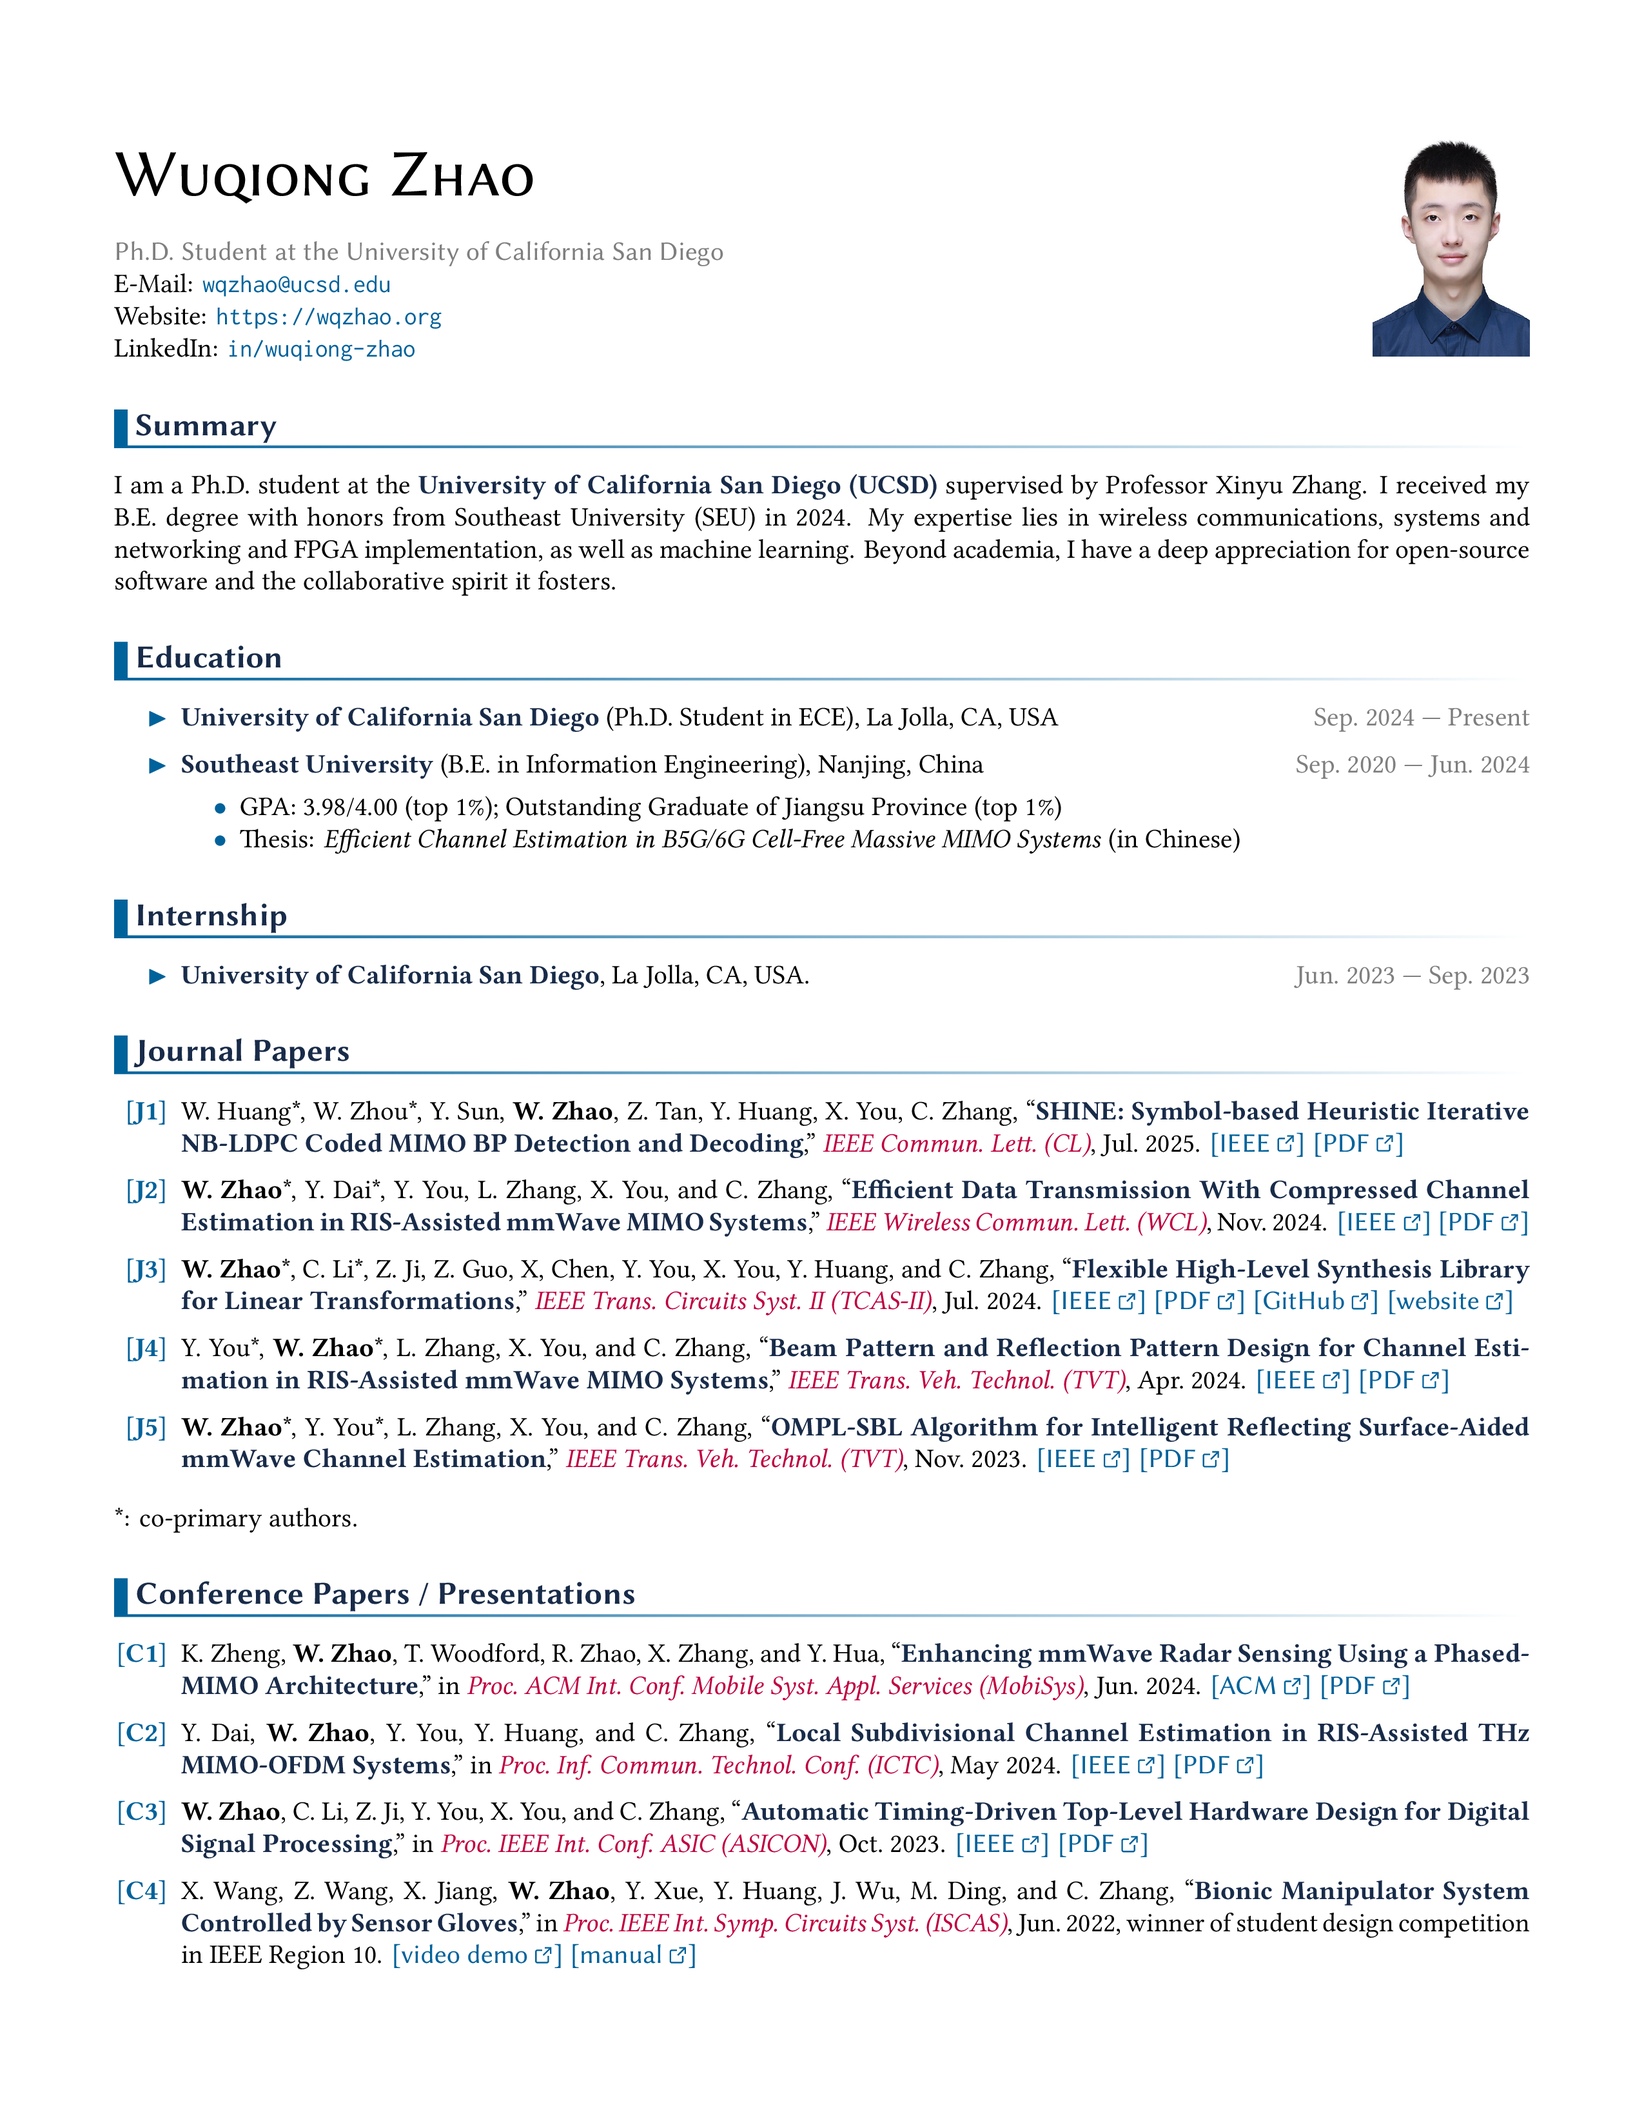
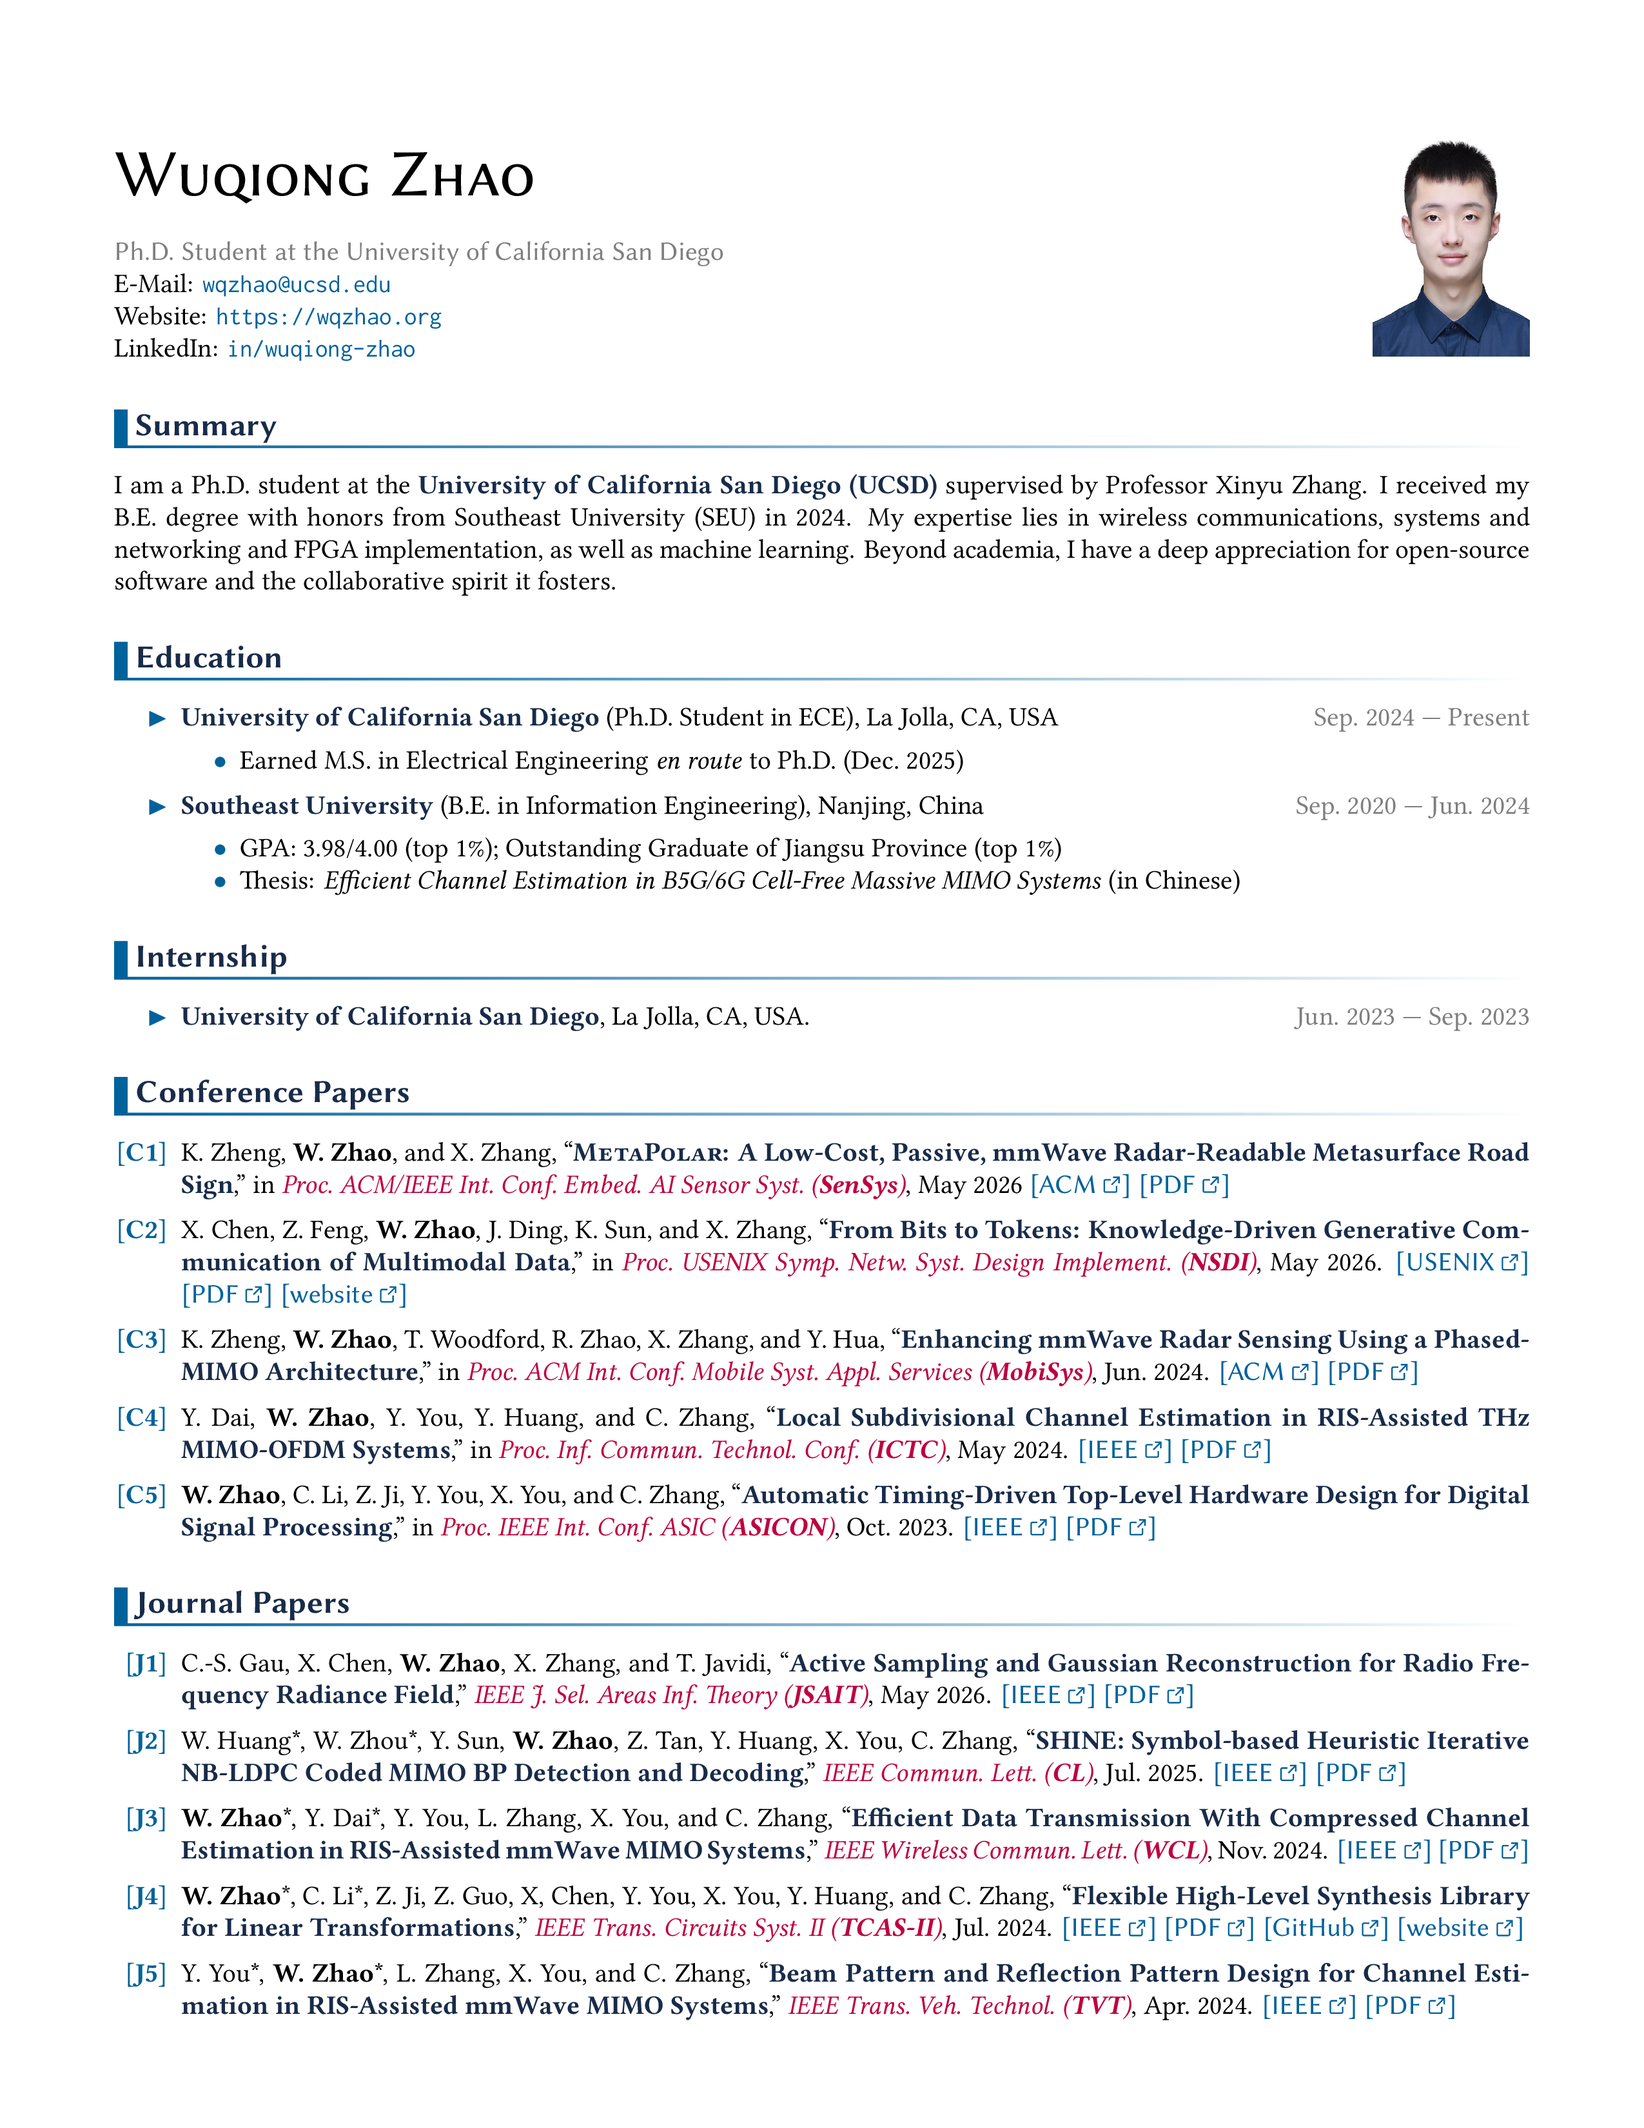
Update Recent Papers

Changed region(s): [[0.062, 0.3433, 0.9294, 0.9676], [0.7745, 0.437, 0.8365, 0.4682]]

diff --git a/color-cv.tex b/color-cv.tex
@@ -55,6 +55,9 @@ Beyond academia, I have a deep appreciation for open-source software and the col
 \begin{itemize}
   \item \Textbf{University of California San Diego} (Ph.D.\@ Student in ECE), La Jolla, CA, USA
     \RDate{Sep.~2024 --- Present}
+    \begin{itemize}
+      \item Earned M.S.\@ in Electrical Engineering \textit{en route} to Ph.D. (Dec.~2025)
+    \end{itemize}
   \item \Textbf{Southeast University} (B.E.\@ in Information Engineering), Nanjing, China
     \RDate{Sep.~2020 --- Jun.~2024}
     \begin{itemize}
@@ -70,24 +73,65 @@ Beyond academia, I have a deep appreciation for open-source software and the col
   \RDate{Jun.~2023 --- Sep.~2023}
 \end{itemize}
 
+\section{Conference Papers}
+\begin{enumerate}[label = \textcolor{\ThemeColor}{[\textbf{C\arabic*}]}, ref=\textcolor{\ThemeColor}{[C\arabic*]}]
+  \item \label{C:zheng2026metapolar}%
+    K.~Zheng, \textbf{W.~Zhao}, and X.~Zhang,
+    ``\Textbf{\textsc{MetaPolar}: A Low-Cost, Passive, mmWave Radar-Readable Metasurface Road Sign},''
+    in \Pub{Proc.\ ACM/IEEE Int.\ Conf.\ Embed.\ AI\ Sensor Syst.\ (\textbf{SenSys})}, May 2026
+    \link{https://dl.acm.org/doi/10.1145/3774906.3800464}{ACM}
+    \link{https://wqzhao.org/assets/zheng2026metapolar.pdf}{PDF}
+  \item \label{C:chen2026from}%
+    X.~Chen, Z.~Feng, \textbf{W.~Zhao}, J.~Ding, K.~Sun, and X.~Zhang,
+    ``\Textbf{From Bits to Tokens: Knowledge-Driven Generative Communication of Multimodal Data},''
+    in \Pub{Proc.\ USENIX Symp.\ Netw.\ Syst.\ Design Implement.\ (\textbf{NSDI})}, May 2026.
+    \link{https://www.usenix.org/conference/nsdi26/presentation/chen-xingyu}{USENIX}
+    \link{https://wqzhao.org/assets/chen2026from.pdf}{PDF}
+    \link{https://bit2token.github.io/}{website}
+  \item \label{C:zheng2024enhancing}%
+    K.~Zheng, \textbf{W.~Zhao}, T.~Woodford, R.~Zhao, X.~Zhang, and Y.~Hua,
+    ``\Textbf{Enhancing mmWave Radar Sensing Using a Phased-MIMO Architecture},''
+    in \Pub{Proc.\ ACM Int.\ Conf.\ Mobile Syst.\ Appl.\ Services (\textbf{MobiSys})}, Jun.\ 2024.
+    \link{https://dl.acm.org/doi/abs/10.1145/3643832.3661865}{ACM}
+    \link{https://wqzhao.org/assets/zheng2024enhancing.pdf}{PDF}
+  \item \label{C:dai2024local}%
+    Y.~Dai, \textbf{W.~Zhao}, Y.~You, Y.~Huang, and C.~Zhang,
+    ``\Textbf{Local Subdivisional Channel Estimation in RIS-Assisted THz MIMO-OFDM Systems},''
+    in \Pub{Proc.\ Inf.\ Commun.\ Technol.\ Conf.\ (\textbf{ICTC})}, May 2024.
+    \link{https://ieeexplore.ieee.org/document/10601808}{IEEE}
+    \link{https://wqzhao.org/assets/dai2024local.pdf}{PDF}
+  \item \label{C:zhao2023automatic}%
+    \textbf{W.~Zhao}, C.~Li, Z.~Ji, Y.~You, X.~You, and C.~Zhang,
+    ``\Textbf{Automatic Timing-Driven Top-Level Hardware Design for Digital Signal Processing},''
+    in \Pub{Proc.\ IEEE Int.\ Conf.\ ASIC (\textbf{ASICON})}, Oct.\ 2023.
+    \link{https://ieeexplore.ieee.org/document/10396119}{IEEE}
+    \link{https://wqzhao.org/assets/zhao2023automatic.pdf}{PDF}
+\end{enumerate}
+
 \section{Journal Papers}
 \begin{enumerate}[label = \textcolor{\ThemeColor}{[\textbf{J\arabic*}]}, ref=\textcolor{\ThemeColor}{[J\arabic*]}]
+  \item \label{J:gau2026active}%
+    C.-S.~Gau, X.~Chen, \textbf{W.~Zhao}, X.~Zhang, and T.~Javidi,
+    ``\Textbf{Active Sampling and Gaussian Reconstruction for Radio Frequency Radiance Field},''
+    \Pub{IEEE J.\ Sel.\ Areas Inf.\ Theory (\textbf{JSAIT})}, May 2026.
+    \link{https://ieeexplore.ieee.org/document/11495132}{IEEE}
+    \link{https://wqzhao.org/assets/gau2026active.pdf}{PDF}
   \item \label{J:huang2025shine}%
     W.~Huang*, W.~Zhou*, Y.~Sun, \textbf{W.~Zhao}, Z.~Tan, Y.~Huang, X.~You, C.~Zhang,
     ``\Textbf{SHINE: Symbol-based Heuristic Iterative NB-LDPC Coded MIMO BP Detection and Decoding},''
-    \Pub{IEEE Commun.\ Lett.\ (CL)}, Jul.\ 2025.
+    \Pub{IEEE Commun.\ Lett.\ (\textbf{CL})}, Jul.\ 2025.
     \link{https://ieeexplore.ieee.org/document/11007208}{IEEE}
     \link{https://wqzhao.org/assets/huang2025shine.pdf}{PDF}
   \item \label{J:zhao2024efficient}%
     \textbf{W.~Zhao}*, Y.~Dai*, Y.~You, L.~Zhang, X.~You, and C.~Zhang,
     ``\Textbf{Efficient Data Transmission With Compressed Channel Estimation in RIS-Assisted mmWave MIMO Systems},''
-    \Pub{IEEE Wireless Commun.\ Lett.\ (WCL)}, Nov.\ 2024.
+    \Pub{IEEE Wireless Commun.\ Lett.\ (\textbf{WCL})}, Nov.\ 2024.
     \link{https://ieeexplore.ieee.org/document/10589430}{IEEE}
     \link{https://wqzhao.org/assets/zhao2024efficient.pdf}{PDF}
   \item \label{J:zhao2024flames}%
     \textbf{W.~Zhao}*, C.~Li*, Z.~Ji, Z.~Guo, X,~Chen, Y.~You, X.~You, Y.~Huang, and C.~Zhang,
     ``\Textbf{Flexible High-Level Synthesis Library for Linear Transformations},''
-    \Pub{IEEE Trans.\ Circuits Syst.\ II (TCAS-II)}, Jul.\ 2024.
+    \Pub{IEEE Trans.\ Circuits Syst.\ II (\textbf{TCAS-II})}, Jul.\ 2024.
     \link{https://ieeexplore.ieee.org/document/10437992}{IEEE}
     \link{https://wqzhao.org/assets/zhao2024flexible.pdf}{PDF}
     \link{https://github.com/autohdw/flames}{GitHub}
@@ -95,52 +139,18 @@ Beyond academia, I have a deep appreciation for open-source software and the col
   \item \label{J:you2024beam}%
     Y.~You*, \textbf{W.~Zhao}*, L.~Zhang, X.~You, and C.~Zhang,
     ``\Textbf{Beam Pattern and Reflection Pattern Design for Channel Estimation in RIS-Assisted mmWave MIMO Systems},''
-    \Pub{IEEE Trans.\ Veh.\ Technol.\ (TVT)}, Apr.\ 2024.
+    \Pub{IEEE Trans.\ Veh.\ Technol.\ (\textbf{TVT})}, Apr.\ 2024.
     \link{https://ieeexplore.ieee.org/document/10243635}{IEEE}
     \link{https://wqzhao.org/assets/you2024beam.pdf}{PDF}
   \item \label{J:zhao2023ompl}%
     \textbf{W.~Zhao}*, Y.~You*, L.~Zhang, X.~You, and C.~Zhang, ``\Textbf{OMPL-SBL Algorithm for Intelligent Reflecting Surface-Aided mmWave Channel Estimation},''
-    \Pub{IEEE Trans.\ Veh.\ Technol.\ (TVT)}, Nov.\ 2023.
+    \Pub{IEEE Trans.\ Veh.\ Technol.\ (\textbf{TVT})}, Nov.\ 2023.
     \link{https://ieeexplore.ieee.org/document/10164645}{IEEE}
     \link{https://wqzhao.org/assets/zhao2023ompl.pdf}{PDF}
 \end{enumerate}
 
 \noindent
 *: co-primary authors.
-
-\section{Conference Papers / Presentations}
-\begin{enumerate}[label = \textcolor{\ThemeColor}{[\textbf{C\arabic*}]}, ref=\textcolor{\ThemeColor}{[C\arabic*]}]
-  \item \label{C:zheng2026metapolar}%
-    K.~Zheng, \textbf{W.~Zhao}, and X.~Zhang,
-    ``\Textbf{MetaPolar: A Low-Cost, Passive, mmWave Radar-Readable Metasurface Road Sign},''
-    in \Pub{Proc.\ ACM/IEEE Int.\ Conf.\ Embed.\ AI\ Sensor Syst.\ (SenSys)}, May\ 2026
-    (to appear).
-  \item \label{C:zheng2024enhancing}%
-    K.~Zheng, \textbf{W.~Zhao}, T.~Woodford, R.~Zhao, X.~Zhang, and Y.~Hua,
-    ``\Textbf{Enhancing mmWave Radar Sensing Using a Phased-MIMO Architecture},''
-    in \Pub{Proc.\ ACM Int.\ Conf.\ Mobile Syst.\ Appl.\ Services (MobiSys)}, Jun.\ 2024.
-    \link{https://dl.acm.org/doi/abs/10.1145/3643832.3661865}{ACM}
-    \link{https://wqzhao.org/assets/zheng2024enhancing.pdf}{PDF}
-  \item \label{C:dai2024local}%
-    Y.~Dai, \textbf{W.~Zhao}, Y.~You, Y.~Huang, and C.~Zhang,
-    ``\Textbf{Local Subdivisional Channel Estimation in RIS-Assisted THz MIMO-OFDM Systems},''
-    in \Pub{Proc.\ Inf.\ Commun.\ Technol.\ Conf.\ (ICTC)}, May 2024.
-    \link{https://ieeexplore.ieee.org/document/10601808}{IEEE}
-    \link{https://wqzhao.org/assets/dai2024local.pdf}{PDF}
-  \item \label{C:zhao2023automatic}%
-    \textbf{W.~Zhao}, C.~Li, Z.~Ji, Y.~You, X.~You, and C.~Zhang,
-    ``\Textbf{Automatic Timing-Driven Top-Level Hardware Design for Digital Signal Processing},''
-    in \Pub{Proc.\ IEEE Int.\ Conf.\ ASIC (ASICON)}, Oct.\ 2023.
-    \link{https://ieeexplore.ieee.org/document/10396119}{IEEE}
-    \link{https://wqzhao.org/assets/zhao2023automatic.pdf}{PDF}
-  \item \label{C:wang2022bionic}%
-    X.~Wang, Z.~Wang, X.~Jiang, \textbf{W.~Zhao}, Y.~Xue, Y.~Huang, J.~Wu, M.~Ding, and C.~Zhang,
-    ``\Textbf{Bionic Manipulator System Controlled by Sensor Gloves},''
-    in \Pub{Proc.\ IEEE Int.\ Symp.\ Circuits Syst.\ (ISCAS)}, Jun.\ 2022,
-    winner of student design competition in IEEE Region 10.
-    \link{https://youtu.be/ExPJ5NHr9pc}{video demo}
-    \link{https://wqzhao.org/assets/GloveGo_User_Manual.pdf}{manual}
-\end{enumerate}
 
 \section{Research}
 \begin{tabularx}{\linewidth}{Xp{8cm}}
@@ -164,32 +174,36 @@ Beyond academia, I have a deep appreciation for open-source software and the col
 \begin{enumerate}[label = \textcolor{\ThemeColor}{\textbf{\arabic*}.}, ref=\textcolor{\ThemeColor}{[P\arabic*]}]
   \item \label{P:seuthesis2024b}%
     \Textbf{seuthesis2024b} \textcolor{darkgray}{(\LaTeX{} Template of Southeast University Thesis for Class of 2024 Bachelors)}
-    \link{https://github.com/Teddy-van-Jerry/seuthesis2024b}{GitHub \textcolor{purple}{(55 stars)}}
+    \link{https://github.com/Teddy-van-Jerry/seuthesis2024b}{GitHub \textcolor{purple}{(66 stars)}}
   \item \label{P:sdr-psk-fpga}%
     \Textbf{SDR PSK FPGA} \textcolor{darkgray}{(Dual-Mode PSK Transceiver on SDR With FPGA)}
-    \link{https://github.com/Teddy-van-Jerry/sdr-psk-fpga}{GitHub \textcolor{purple}{(48 stars)}}
+    \link{https://github.com/Teddy-van-Jerry/sdr-psk-fpga}{GitHub \textcolor{purple}{(55 stars)}}
     \link{https://go.wqzhao.org/sdr-psk-fpga}{report}
   \item \label{P:pdf2ppt}%
     \Textbf{PDF2PPT} \textcolor{darkgray}{(PDF to PPT Conversion Tool in Python)}
-    \link{https://github.com/Teddy-van-Jerry/pdf2ppt}{GitHub \textcolor{purple}{(33 stars)}}
+    \link{https://github.com/Teddy-van-Jerry/pdf2ppt}{GitHub \textcolor{purple}{(37 stars)}}
   \item \label{P:seu-ml-assign}%
     \Textbf{seu-ml-assign} \textcolor{darkgray}{(\LaTeX{} Template for SEU Machine Learning Assignment)}
     \link{https://github.com/Teddy-van-Jerry/SEU-ML-Assign_LaTeX_Template}{GitHub \textcolor{purple}{(31 stars)}}
     \link{https://ctan.org/pkg/seu-ml-assign}{CTAN}
   \item \label{P:mmcesim}%
     \Textbf{mmCEsim} \textcolor{darkgray}{(Millimeter Wave Channel Estimation Simulator)}
-    \link{https://github.com/mmcesim/mmcesim}{GitHub \textcolor{purple}{(18 stars)}}
+    \link{https://github.com/mmcesim/mmcesim}{GitHub \textcolor{purple}{(19 stars)}}
     \link{https://mmcesim.org}{website}
     \link{https://pub.mmcesim.org/mmCEsim-doc.pdf}{manual}
+  \item \label{P:ngspice-cmos}%
+    \Textbf{NGSPICE CMOS} \textcolor{darkgray}{(NGSPICE Simulation of CMOS Circuits)}
+    \link{https://github.com/Teddy-van-Jerry/ngspice-cmos}{GitHub \textcolor{purple}{(19 stars)}}
+    \link{https://spice.tvj.one}{website}
+    \link{https://spice.tvj.one/report/NGSPICE_CMOS_Report.pdf}{report}
   \item \label{P:fractal_designer}%
     \Textbf{Fractal Designer} \textcolor{darkgray}{(Fractal Video Making GUI App in C++)}
     \link{https://github.com/Teddy-van-Jerry/Fractal_Designer}{GitHub \textcolor{purple}{(15 stars)}}
     \link{https://wqzhao.org/projects/fractal-designer}{website}
-  \item \label{P:ngspice-cmos}%
-    \Textbf{NGSPICE CMOS} \textcolor{darkgray}{(NGSPICE Simulation of CMOS Circuits)}
-    \link{https://github.com/Teddy-van-Jerry/ngspice-cmos}{GitHub \textcolor{purple}{(14 stars)}}
-    \link{https://spice.tvj.one}{website}
-    \link{https://spice.tvj.one/report/NGSPICE_CMOS_Report.pdf}{report}
+  \item \label{P:localleaf}%
+    \Textbf{LocalLeaf} \textcolor{darkgray}{(Local \LaTeX{} Editing yet Synced to Overleaf)}
+    \link{https://github.com/Teddy-van-Jerry/LocalLeaf}{GitHub \textcolor{purple}{(10 stars)}}
+    \link{https://localleaf.wqzhao.org}{website}
   \item \label{P:dice_simulation}%
     \Textbf{Dice Simulation} \textcolor{darkgray}{(Simulator Based on ReactPhysics3D in C++)}
     \link{https://github.com/Teddy-van-Jerry/Dice_Simulation}{GitHub \textcolor{purple}{(9 stars)}}
@@ -200,7 +214,7 @@ Beyond academia, I have a deep appreciation for open-source software and the col
     \link{https://wqzhao.org/assets/ARM_Lite_Doc.pdf}{report}
   \item \label{P:color-cv}%
     \Textbf{color-cv} \textcolor{darkgray}{(Colorful CV Template in \LaTeX{})}
-    \link{https://github.com/Teddy-van-Jerry/color-cv}{GitHub \textcolor{purple}{(8 stars)}}
+    \link{https://github.com/Teddy-van-Jerry/color-cv}{GitHub \textcolor{purple}{(9 stars)}}
   \item \label{P:water_filling}%
     \Textbf{Water Filling} \textcolor{darkgray}{(Command Line App with Plotting Support in C++)}
     \link{https://github.com/Teddy-van-Jerry/Water_Filling}{GitHub \textcolor{purple}{(7 stars)}}
@@ -233,7 +247,7 @@ Beyond academia, I have a deep appreciation for open-source software and the col
 \begin{itemize}
   \item \Textbf{Reviewer} for journals \Pub{IEEE TCAS-II}, \Pub{IEEE WCL}, etc.
     \RDate{Mar.~2023 --- Present}
-  \item \Textbf{Reviewer} for conference \Pub{ISCAS '23, '25}
+  \item \Textbf{Reviewer} for conference \Pub{ISCAS '23, '25, '26}, \Pub{CHI '26}, \Pub{MobiSys '26 AE}, etc.
     \RDate{Dec.~2022 --- Present}
   \item \Textbf{Teaching Assistant} of Advanced Electromagnetic Fields \& Waves at SEU
     \RDate{Feb.~2023 --- Jun.~2023}
@@ -247,6 +261,7 @@ Beyond academia, I have a deep appreciation for open-source software and the col
   \item \Textbf{Programming}: C++, Python, \textsc{Matlab}, Verilog, Rust, \LaTeX{}, etc.
 \end{itemize}
 
-\vfill\noindent\centering\textcolor{gray}{\small Last Updated: \today{}}
+\vfill\noindent\centering\textcolor{gray}
+  {\small Last updated: \today{} ~\textbf{|}~ Latest version online: \href{https://wqz.me/cv}{\color{gray}\texttt{wqz.me/cv}}}
 
 \end{document}
